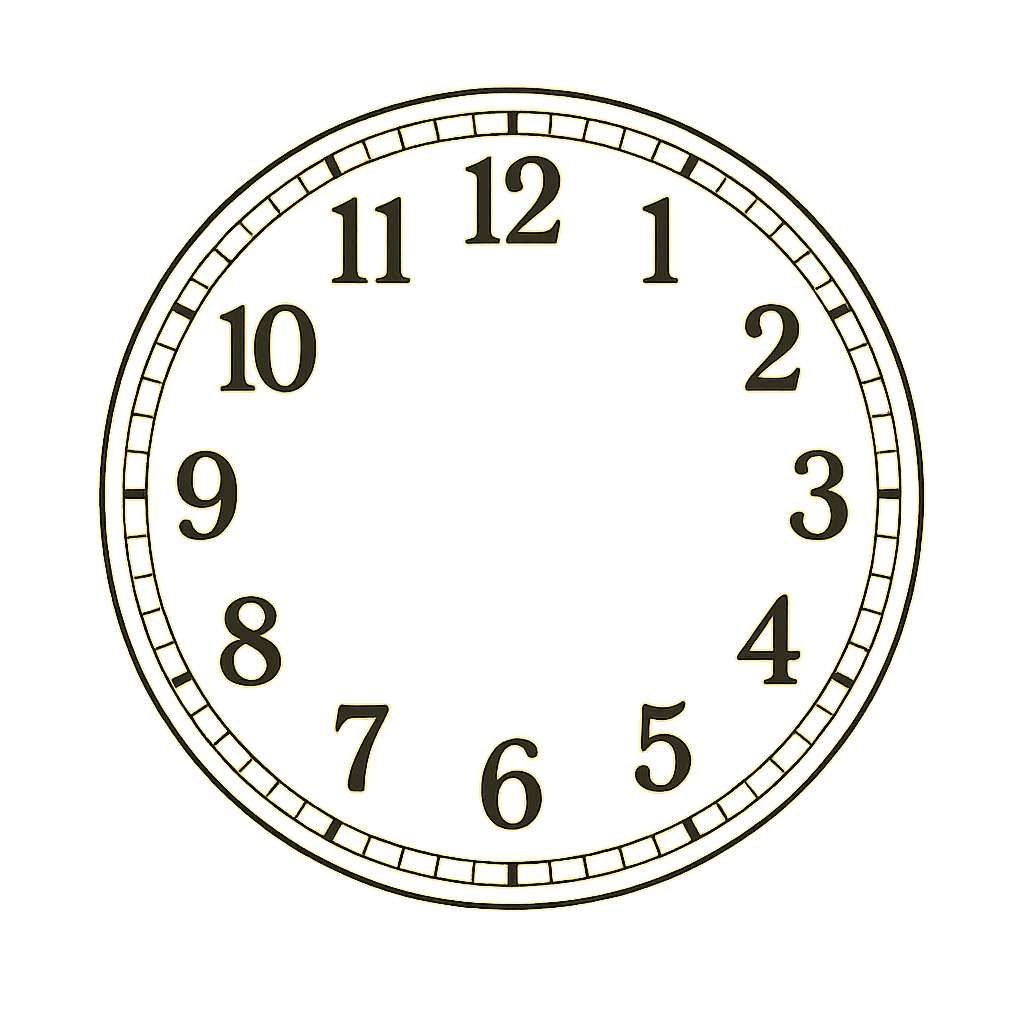
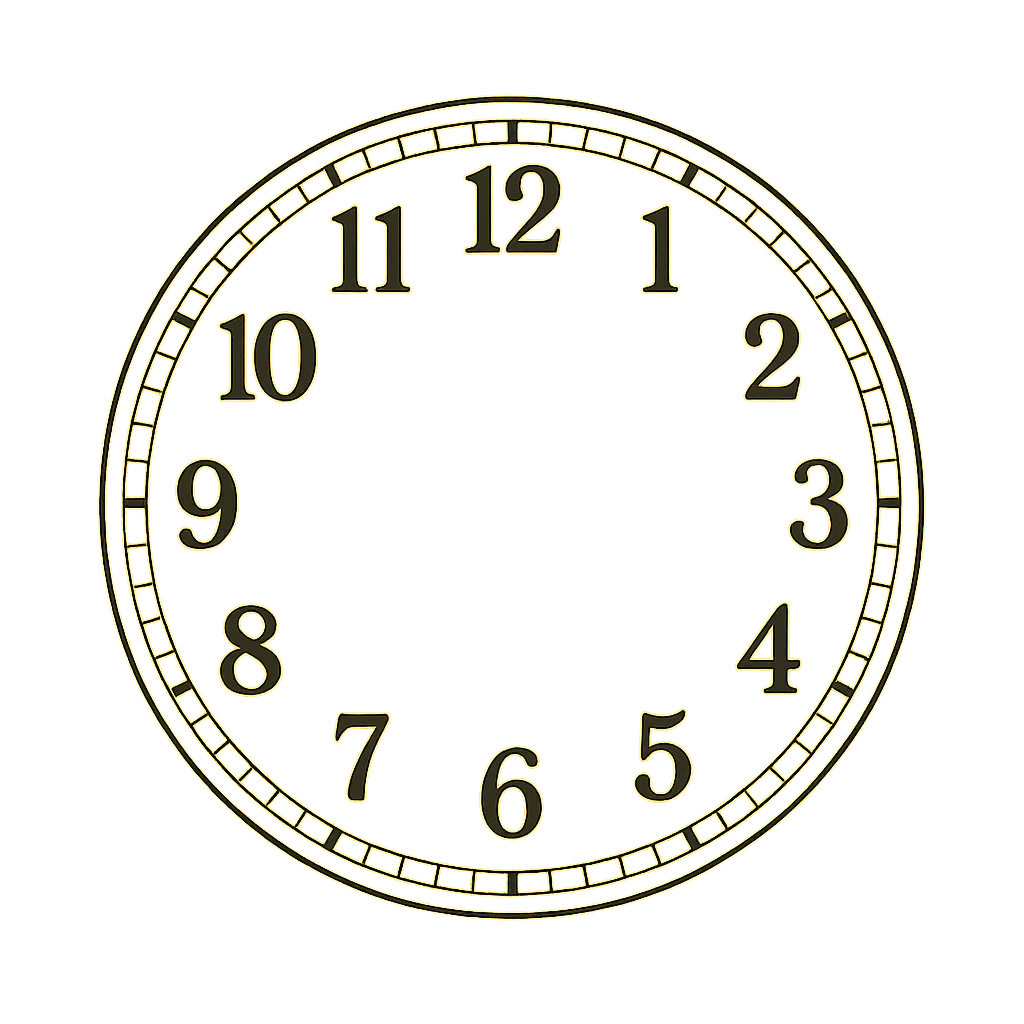
update

Changed region(s): [[0.0938, 0.0625, 0.9062, 0.9062], [0.625, 0.25, 0.6562, 0.3125]]

diff --git a/src/clock_widget.py b/src/clock_widget.py
@@ -99,10 +99,20 @@ class AnalogClock(QWidget):
 
         # 背景画像
         if self.bg_pixmap:
+            scale = self.config["background"].get("image_scale", 1.0)
+
+            size = int(200 * scale)
+            offset = size // 2
+
             painter.setOpacity(
                 self.config["background"].get("image_opacity", 1.0)
             )
-            painter.drawPixmap(-100, -100, 200, 200, self.bg_pixmap)
+            painter.drawPixmap(
+                -offset, -offset,
+                size, size,
+                self.bg_pixmap
+            )
+
 
         painter.restore()
         painter.setOpacity(1.0)
